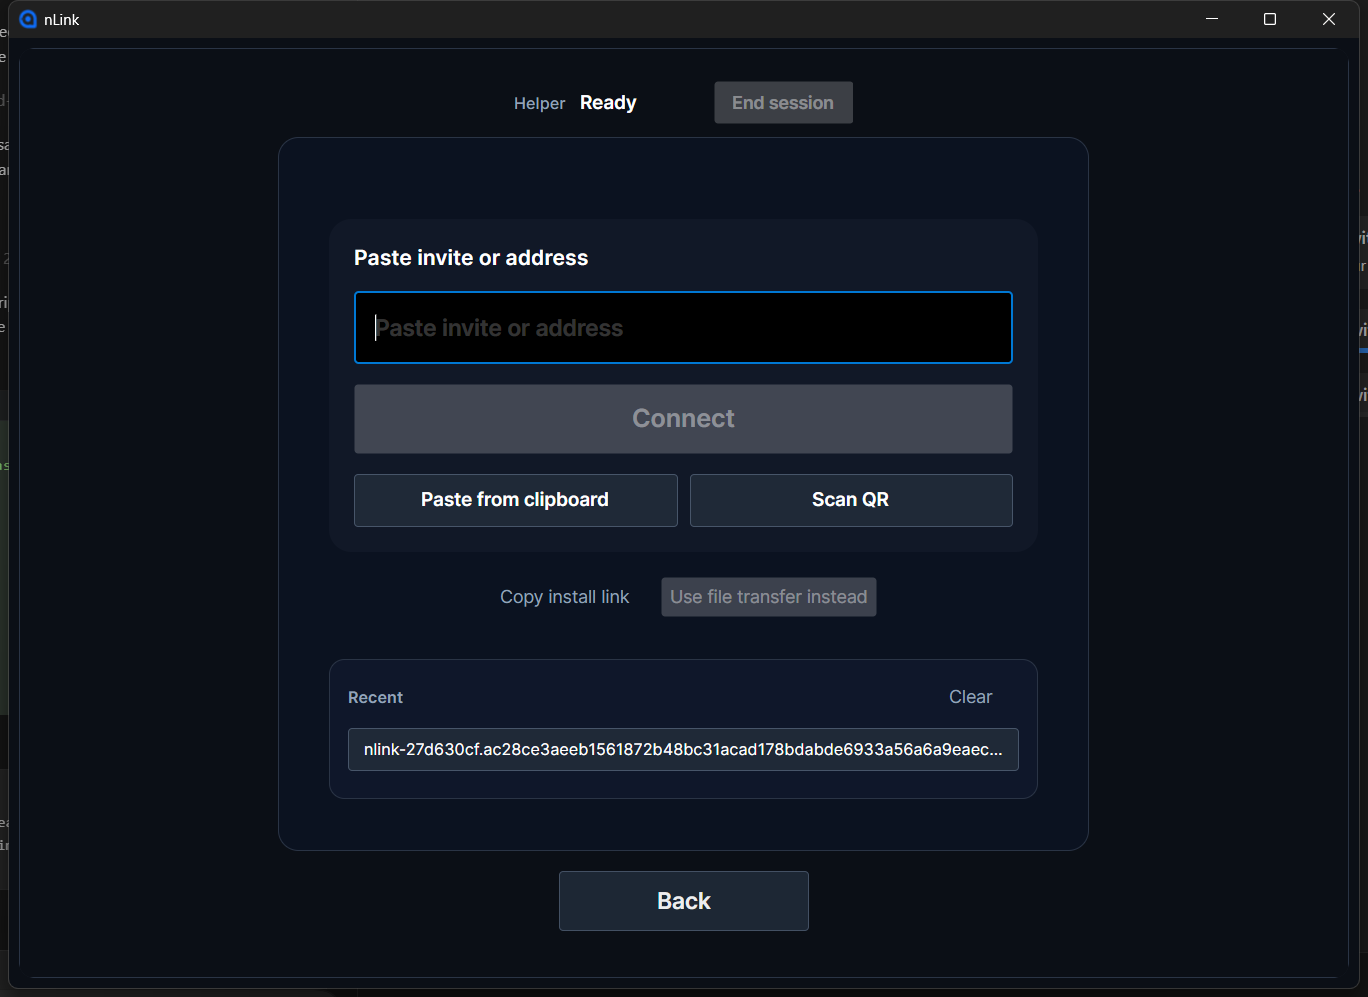
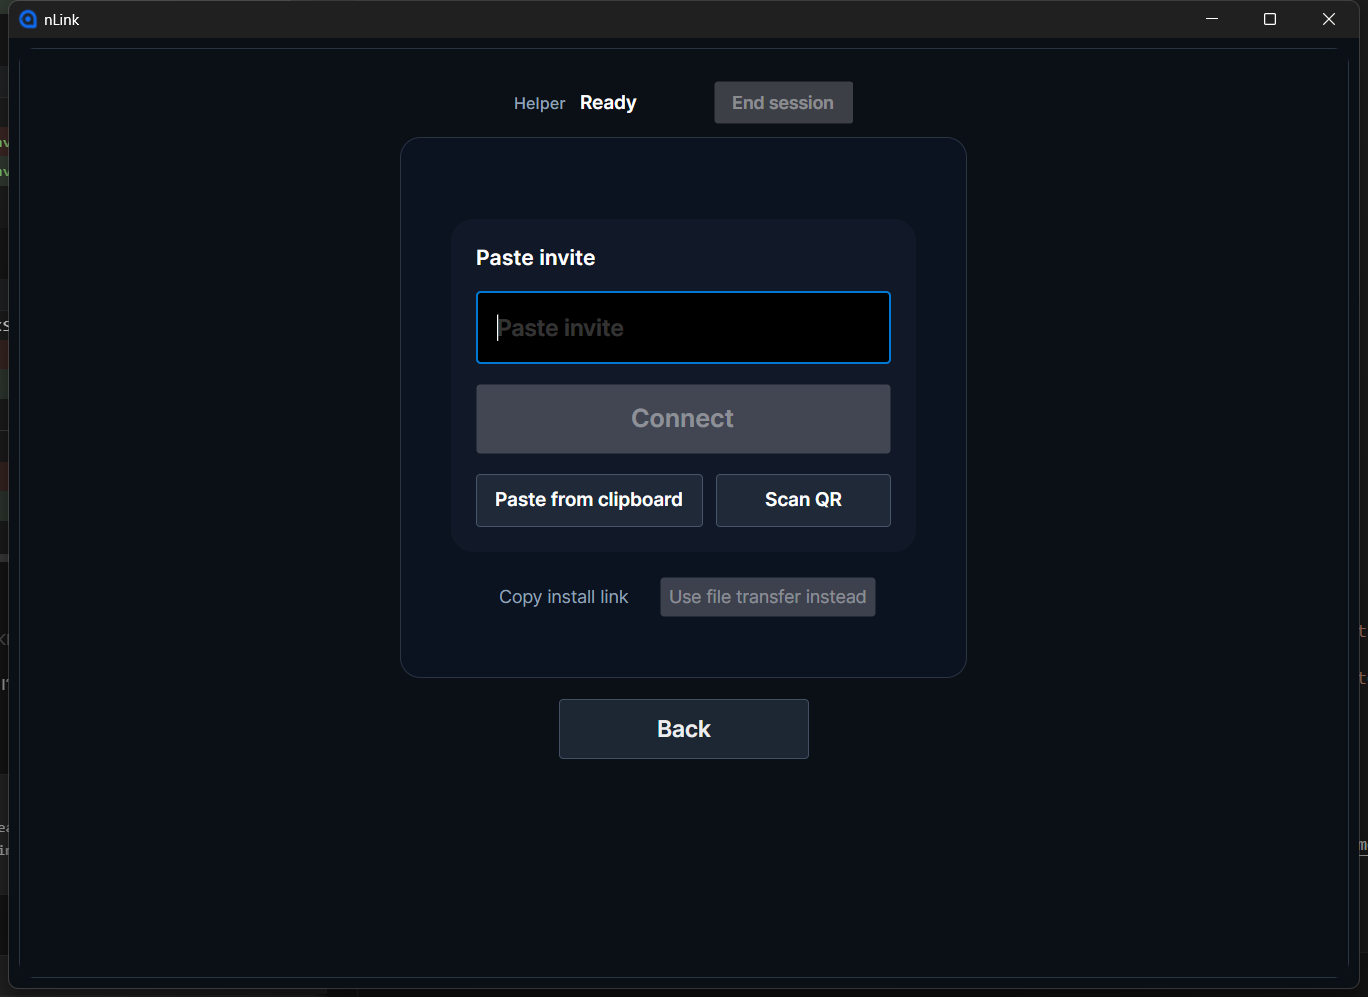
Readme update

diff --git a/src/nLink.App/ViewModels/HelperPageViewModel.cs b/src/nLink.App/ViewModels/HelperPageViewModel.cs
@@ -311,7 +311,7 @@ public sealed class HelperPageViewModel : ViewModelBase, IDisposable, IChatPanel
         }
     }
 
-    public string HelperPageHelpText => "Paste invite or address.";
+    public string HelperPageHelpText => "Paste invite.";
 
     public string ConnectionMethodHint => transportConfig.HelperHintText;
 

diff --git a/README.md b/README.md
@@ -12,7 +12,6 @@ Minimal `.NET 8` / Avalonia desktop app (Windows-first) with deterministic smoke
 
 - Helpee shares an invite with QR, share, and copy actions.
 - Helper connects by pasting an invite, pasting from the clipboard, or scanning a QR code.
-- Direct NKN address entry remains available when needed.
 
 ## Quick Start (Windows)
 
@@ -206,11 +205,11 @@ Run the test (same PC, two app instances):
 1. Start the first app instance:
    `dotnet run --project src/nLink.App -c Release`
 2. Click `I need help`
-3. Copy the invite (or direct NKN address) shown on screen
+3. Copy the invite shown on screen
 4. Start the second app instance:
    `dotnet run --project src/nLink.App -c Release`
 5. Click `I want to help someone`
-6. Paste the invite or direct NKN address
+6. Paste the invite
 7. Click `Connect`
 8. On the first instance, click `Allow`
 9. Send chat messages both ways and confirm they appear on both sides
